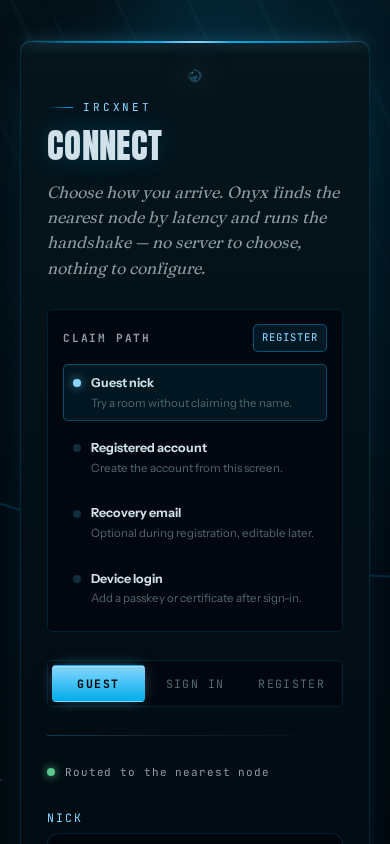
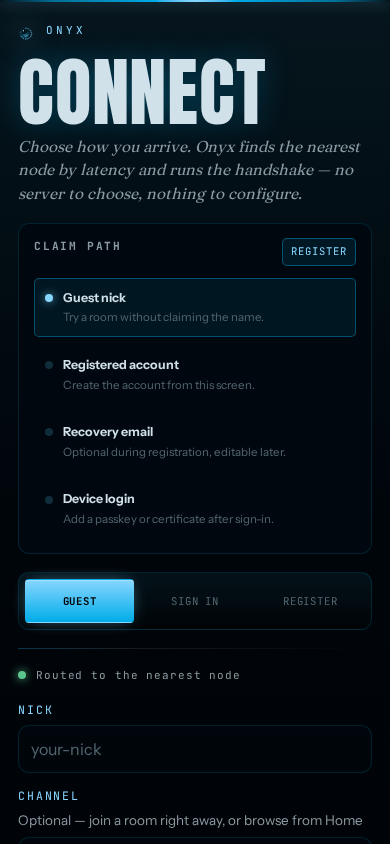
fix(pwa): publish truthful install artwork

diff --git a/src/pwa/manifest.test.ts b/src/pwa/manifest.test.ts
@@ -1,4 +1,5 @@
 // SPDX-License-Identifier: AGPL-3.0-or-later
+import { createHash } from 'node:crypto';
 import { existsSync, readFileSync } from 'node:fs';
 import { dirname, join } from 'node:path';
 import { runInNewContext } from 'node:vm';
@@ -11,8 +12,11 @@ type WebManifest = {
   start_url: string;
   scope: string;
   display: string;
+  background_color: string;
+  theme_color: string;
   display_override?: string[];
   launch_handler?: { client_mode?: string[] };
+  icons?: Array<{ src: string; sizes: string; type: string; purpose: string }>;
   shortcuts?: Array<{ name: string; description: string; url: string }>;
   screenshots?: Array<{ src: string; sizes: string; form_factor: string; label: string }>;
 };
@@ -55,6 +59,10 @@ describe('PWA manifest', () => {
 
   it('declares app shortcuts and install screenshots backed by public assets', () => {
     const manifest = loadManifest();
+    const retiredScreenshotDigests = new Set([
[2 lines of base64/hex data omitted]
+    ]);
 
     expect(manifest.shortcuts?.map((shortcut) => shortcut.url)).toEqual(['/app/', '/status/', '/stats/']);
     expect(manifest.screenshots?.map((shot) => shot.form_factor).sort()).toEqual(['narrow', 'wide']);
@@ -62,8 +70,28 @@ describe('PWA manifest', () => {
     for (const screenshot of manifest.screenshots ?? []) {
       expect(screenshot.label).toMatch(/^Onyx /);
       expect(screenshot.sizes).toMatch(/^\d+x\d+$/);
-      expect(existsSync(join(root, 'public', screenshot.src))).toBe(true);
+      const screenshotPath = join(root, 'public', screenshot.src);
+      expect(existsSync(screenshotPath)).toBe(true);
+      const digest = createHash('sha256').update(readFileSync(screenshotPath)).digest('hex');
+      expect(retiredScreenshotDigests).not.toContain(digest);
     }
+  });
+
+  it('keeps install chrome aligned and does not overclaim full-bleed icons as maskable', () => {
+    const manifest = loadManifest();
+    const document = new DOMParser().parseFromString(
+      readFileSync(entryDocumentPath, 'utf8'),
+      'text/html',
+    );
+
+    expect(manifest.icons).toEqual([
+      expect.objectContaining({ src: '/icon-192.png', sizes: '192x192', purpose: 'any' }),
+      expect.objectContaining({ src: '/icon-512.png', sizes: '512x512', purpose: 'any' }),
+    ]);
+    expect(manifest.icons?.some((icon) => icon.purpose.split(/\s+/).includes('maskable'))).toBe(false);
+    expect(document.querySelector('meta[name="theme-color"]')?.getAttribute('content'))
+      .toBe(manifest.theme_color);
+    expect(manifest.background_color).toBe(manifest.theme_color);
   });
 
   it('references notification icons that exist in public assets', () => {

diff --git a/index.html b/index.html
@@ -5,7 +5,7 @@
     <meta charset="UTF-8" />
     <meta name="viewport" content="width=device-width, initial-scale=1, viewport-fit=cover" />
     <meta name="color-scheme" content="dark light" />
-    <meta name="theme-color" content="#02060d" />
+    <meta name="theme-color" content="#000306" />
     <title>Onyx — open rooms and encrypted media</title>
     <meta
       name="description"
